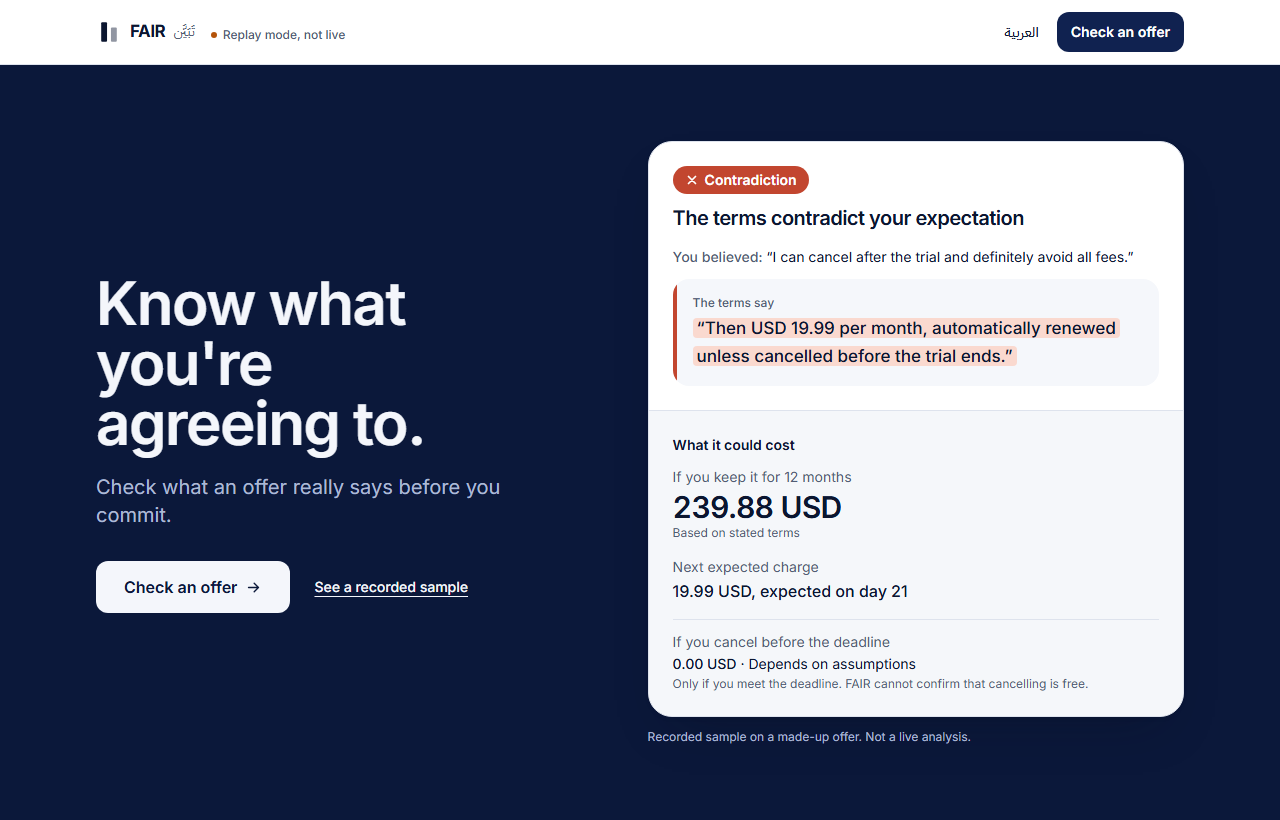
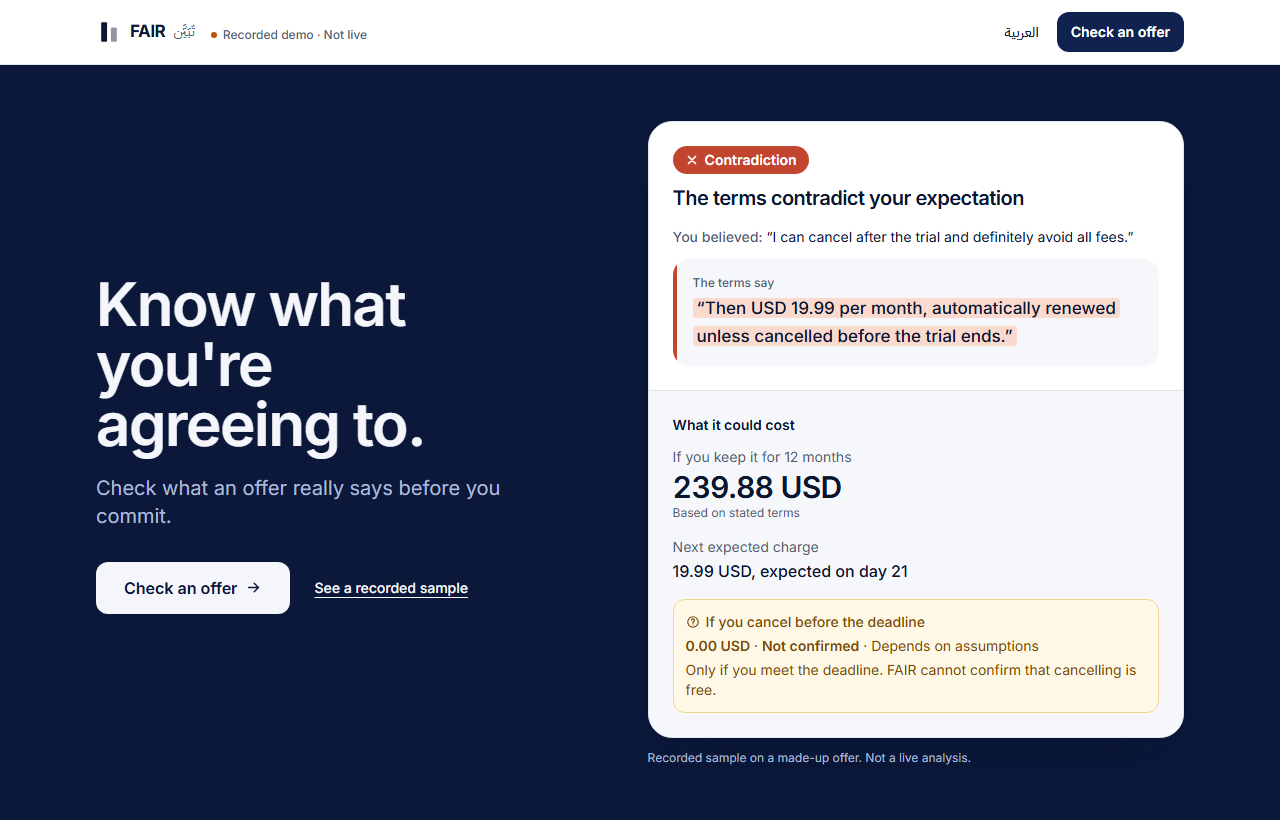
FAIR: final demo polish and submission README
- One concise "Recorded demo · Not live" label instead of repeated replay banners
- Recorded examples lead the form in replay mode; unsupported input gets a calm notice
- Cancel scenario shown as conditional and "Not confirmed" beside the amount
- README: problem statement, refreshed screenshots, updated replay instructions

diff --git a/frontend/src/i18n/strings.js b/frontend/src/i18n/strings.js
@@ -31,7 +31,7 @@ export const STRINGS = {
     },
     status: {
       label: 'System status',
-      replay: 'Replay mode, not live',
+      replay: 'Recorded demo · Not live',
     },
     home: {
       title: "Know what you're agreeing to.",
@@ -50,12 +50,14 @@ export const STRINGS = {
     },
     examples: {
       title: 'Try an example',
+      recordedTitle: 'Explore a recorded example',
     },
     result: {
       costTitle: 'What it could cost',
       keepFor: 'If you keep it for {months}',
       ifCancel: 'If you cancel before the deadline',
       cancelCaveat: 'Only if you meet the deadline. FAIR cannot confirm that cancelling is free.',
+      notConfirmed: 'Not confirmed',
       noTotal: 'No total shown',
       noEstablished: 'These terms do not establish a cost FAIR can calculate.',
       stillOpen: 'The terms do not settle',
@@ -73,7 +75,7 @@ export const STRINGS = {
         not_configured: "Live analysis isn't set up on this server, so no result can be produced yet.",
         disabled: 'Live analysis is turned off on this server, so no result can be produced right now.',
         unreachable: "FAIR can't be reached right now. You can still prepare your text.",
-        replay: 'Demo mode: only the examples below can be checked. Other text returns an error.',
+        replay: 'This demo answers these three recorded examples. Pick one, then press Reveal the Gap.',
       },
       latestResult: 'View latest result',
       retryConnection: 'Try again',
@@ -106,9 +108,9 @@ export const STRINGS = {
       newCheck: 'Check another offer',
     },
     replay: {
-      badge: 'Recorded synthetic example — replay, not a live model request.',
-      savedNotice: 'This whole result was saved earlier. Nothing is running now.',
-      notice: 'FAIR re-ran its checks on a saved answer, and no model request was made.',
+      badge: 'Recorded example · Not live',
+      savedNotice: 'A saved result. Nothing is running now.',
+      notice: 'A saved answer, re-checked by FAIR. No model request was made.',
       earlierPrompt: 'This saved answer came from an earlier prompt, v4. With the current prompt, v5, the model itself answered "not settled" on this case, and the check stays in place as a backstop.',
     },
     reveal: {
@@ -148,8 +150,8 @@ export const STRINGS = {
     },
     errors: {
       replay_unsupported: {
-        title: 'This demo only checks the examples',
-        body: 'Choose one of the examples below the form. Other text cannot be analysed here.',
+        title: 'This demo checks recorded examples only',
+        body: 'Choose one of the three recorded examples above. Your own text can’t be analysed in this demo.',
       },
       code: 'Error code: {code}',
       retry: 'Try again',
@@ -551,7 +553,7 @@ export const STRINGS = {
     },
     status: {
       label: 'حالة النظام',
-      replay: 'وضع الإعادة، ليس مباشرًا',
+      replay: 'عرض مسجَّل · ليس مباشرًا',
     },
     home: {
       title: 'اعرف على ماذا توافق.',
@@ -570,12 +572,14 @@ export const STRINGS = {
     },
     examples: {
       title: 'جرّب مثالًا',
+      recordedTitle: 'استكشف مثالًا مسجَّلًا',
     },
     result: {
       costTitle: 'كم قد يكلفك',
       keepFor: 'إذا احتفظت به لمدة {months}',
       ifCancel: 'إذا ألغيت قبل الموعد النهائي',
       cancelCaveat: 'بشرط الالتزام بالموعد. لا يستطيع FAIR تأكيد أن الإلغاء مجاني.',
+      notConfirmed: 'غير مؤكَّد',
       noTotal: 'لا يوجد إجمالي',
       noEstablished: 'لا تحدد هذه الشروط تكلفة يمكن لـ FAIR حسابها.',
       stillOpen: 'لا تحسم الشروط',
@@ -593,7 +597,7 @@ export const STRINGS = {
         not_configured: 'التحليل المباشر غير مُعدّ على هذا الخادم، لذا لا يمكن إصدار نتيجة بعد.',
         disabled: 'التحليل المباشر متوقف على هذا الخادم، لذا لا يمكن إصدار نتيجة حاليًا.',
         unreachable: 'تعذّر الوصول إلى FAIR حاليًا. يمكنك مواصلة تجهيز نصك.',
-        replay: 'وضع العرض: يمكن فحص الأمثلة أدناه فقط، ويعيد أي نص آخر رسالة خطأ.',
+        replay: 'يجيب هذا العرض عن هذه الأمثلة المسجَّلة الثلاثة. اختر واحدًا، ثم اضغط «اكشف الفجوة».',
       },
       latestResult: 'عرض أحدث نتيجة',
       retryConnection: 'حاول مجددًا',
@@ -626,9 +630,9 @@ export const STRINGS = {
       newCheck: 'افحص عرضًا آخر',
     },
     replay: {
-      badge: 'مثال اصطناعي مسجَّل — إعادة عرض، وليس طلبًا مباشرًا إلى النموذج.',
-      savedNotice: 'حُفظت هذه النتيجة كاملة سابقًا. لا يجري أي شيء الآن.',
-      notice: 'أعاد FAIR فحوصه على إجابة محفوظة، ولم يُرسل أي طلب إلى النموذج.',
+      badge: 'مثال مسجَّل · ليس مباشرًا',
+      savedNotice: 'نتيجة محفوظة. لا يجري أي شيء الآن.',
+      notice: 'إجابة محفوظة أعاد FAIR فحصها، ولم يُرسل أي طلب إلى النموذج.',
       earlierPrompt: 'جاءت هذه الإجابة المحفوظة من إصدار أقدم من التعليمات (v4). ومع الإصدار الحالي (v5) أجاب النموذج نفسه بأن الأمر «غير محسوم» في هذه الحالة، ويبقى الفحص قائمًا كخط دفاع احتياطي.',
     },
     reveal: {
@@ -668,8 +672,8 @@ export const STRINGS = {
     },
     errors: {
       replay_unsupported: {
-        title: 'يفحص هذا العرض الأمثلة فقط',
-        body: 'اختر أحد الأمثلة أسفل النموذج. لا يمكن تحليل أي نص آخر هنا.',
+        title: 'يفحص هذا العرض الأمثلة المسجَّلة فقط',
+        body: 'اختر أحد الأمثلة المسجَّلة الثلاثة أعلاه. لا يمكن تحليل نصك الخاص في هذا العرض.',
       },
       code: 'رمز الخطأ: {code}',
       retry: 'حاول مجددًا',

diff --git a/frontend/src/test/App.test.jsx b/frontend/src/test/App.test.jsx
@@ -592,8 +592,8 @@ describe('replay mode is never presented as live', () => {
   const REPLAY = { ...HEALTH.live, model: 'replay:muse-spark-1.3' }
 
   it.each([
-    ['en', 'Replay mode, not live', 'Recorded synthetic example — replay, not a live model request.', 'no model request was made', 'Live analysis'],
-    ['ar', 'وضع الإعادة، ليس مباشرًا', 'مثال اصطناعي مسجَّل — إعادة عرض، وليس طلبًا مباشرًا إلى النموذج.', 'لم يُرسل أي طلب إلى النموذج', 'تحليل مباشر'],
+    ['en', 'Recorded demo · Not live', 'Recorded example · Not live', 'No model request was made', 'Live analysis'],
+    ['ar', 'عرض مسجَّل · ليس مباشرًا', 'مثال مسجَّل · ليس مباشرًا', 'لم يُرسل أي طلب إلى النموذج', 'تحليل مباشر'],
   ])('labels the status, the note and the result (%s)', async (lang, pill, badge, notice, liveWords) => {
     const user = userEvent.setup()
     const { terms, expectation, body } = replay.cases['FAIR-003']
@@ -801,7 +801,7 @@ describe('truthful system status', () => {
     await user.click(within(screen.getByTestId('availability')).getByRole('button', { name: 'Try again' }))
     await waitFor(() => expect(healthCalls()).toBe(2))
     await user.click(await screen.findByRole('button', { name: 'Open a saved example instead' }))
-    expect(await screen.findByTestId('replay-badge')).toHaveTextContent('Recorded synthetic example')
+    expect(await screen.findByTestId('replay-badge')).toHaveTextContent('Recorded example · Not live')
     expect(screen.getByTestId('replay-notice')).toHaveTextContent('Nothing is running now')
     expect(screen.queryByTestId('live-badge')).not.toBeInTheDocument()
   })
@@ -922,7 +922,7 @@ describe('live analysis → Results workspace', () => {
     expect(verdict).toHaveTextContent('Contradiction')
     expect(verdict).toHaveTextContent('The terms contradict your expectation')
     expect(verdict).toHaveTextContent('It does not stay free.')
-    expect(within(verdict).getByText('AI interpretation')).toBeInTheDocument()
+    expect(within(verdict).queryByText('AI interpretation')).not.toBeInTheDocument() // kept in the detail rows, not the answer
     const mirror = screen.getByRole('region', { name: 'Your expectation vs the terms' })
     const claims = within(mirror).getAllByTestId('claim')
     expect(claims.map((c) => c.dataset.verdict)).toEqual(['MATCH', 'CONTRADICTION'])
@@ -1432,6 +1432,7 @@ describe('home page', () => {
     expect(screen.getByTestId('proof-label')).toHaveTextContent('Recorded sample')
     expect(screen.getByTestId('proof-label')).toHaveTextContent('Not a live analysis')
     const cancel = within(screen.getByTestId('product-proof')).getByTestId('primary-cancel')
+    expect(cancel).toHaveTextContent('Not confirmed')
     expect(cancel).toHaveTextContent('Depends on assumptions')
     expect(cancel).toHaveTextContent('FAIR cannot confirm that cancelling is free')
   })
@@ -1499,6 +1500,7 @@ describe('the answer comes first', () => {
     await show(user, 'decision-twin')
     const cancel = screen.getByTestId('primary-cancel')
     expect(cancel).toHaveTextContent('0.00 USD')
+    expect(cancel).toHaveTextContent('Not confirmed')
     expect(cancel).toHaveTextContent('Depends on assumptions')
     expect(cancel).toHaveTextContent('Only if you meet the deadline')
     expect(screen.getByTestId('primary-keep').querySelector('dd').className).toContain('text-3xl')
@@ -1549,11 +1551,14 @@ describe('demo mode says what it can do', () => {
     const user = userEvent.setup()
     mockFetchWith({ ...HEALTH.live, model: 'replay:muse-spark-1.3' }, fakeResponse(502, { error: { code: 'model_unavailable', message: 'x' } }))
     renderApp()
-    expect(await screen.findByTestId('availability')).toHaveTextContent('only the examples below can be checked')
+    expect(await screen.findByTestId('availability')).toHaveTextContent('This demo answers these three recorded examples')
+    expect(screen.getByRole('heading', { name: 'Explore a recorded example' })).toBeInTheDocument()
     await fillAndSubmit(user, 'Some other offer.', 'A belief.')
     const alert = await screen.findByRole('alert')
-    expect(alert).toHaveTextContent('This demo only checks the examples')
+    expect(alert).toHaveTextContent('This demo checks recorded examples only')
     expect(alert).not.toHaveTextContent('unavailable')
+    expect(alert).not.toHaveTextContent('Error code')
+    expect(within(alert).queryByRole('button', { name: 'Try again' })).not.toBeInTheDocument()
   })
 })
 

diff --git a/frontend/src/components/AnalyzeForm.jsx b/frontend/src/components/AnalyzeForm.jsx
@@ -60,7 +60,8 @@ const TextArea = forwardRef(function TextArea({ id, label, error, value, onChang
 /** Honest note about availability, with a way forward. Only "live" may mention Muse Spark as the engine. */
 export function AvailabilityNote({ status, onRetry, onOpenExample }) {
   const { t } = useLang()
-  if (status === 'checking') return null
+  // Replay is introduced by the recorded examples themselves (ExamplesList), not by a banner.
+  if (status === 'checking' || status === 'replay') return null
   if (status === 'live') {
     return (
       <p className="text-xs text-muted" data-testid="availability" data-status={status}>
@@ -71,29 +72,39 @@ export function AvailabilityNote({ status, onRetry, onOpenExample }) {
   return (
     <div className="rounded-xl bg-unknown-bg px-4 py-3 text-sm text-unknown-fg" role="status" data-testid="availability" data-status={status}>
       <p>{t(`analyze.unavailable.${status}`)}</p>
-      {status === 'replay' ? null : (
-        <p className="mt-1 flex flex-wrap gap-x-4">
-          {status === 'unreachable' ? (
-            <button type="button" className="inline-flex min-h-[32px] items-center rounded font-medium underline underline-offset-4" onClick={onRetry}>
-              {t('analyze.retryConnection')}
-            </button>
-          ) : null}
-          <button type="button" className="inline-flex min-h-[32px] items-center rounded font-medium underline underline-offset-4" onClick={() => onOpenExample(SAVED_EXAMPLES[0].id)}>
-            {t('analyze.openExample')}
+      <p className="mt-1 flex flex-wrap gap-x-4">
+        {status === 'unreachable' ? (
+          <button type="button" className="inline-flex min-h-[32px] items-center rounded font-medium underline underline-offset-4" onClick={onRetry}>
+            {t('analyze.retryConnection')}
           </button>
-        </p>
-      )}
+        ) : null}
+        <button type="button" className="inline-flex min-h-[32px] items-center rounded font-medium underline underline-offset-4" onClick={() => onOpenExample(SAVED_EXAMPLES[0].id)}>
+          {t('analyze.openExample')}
+        </button>
+      </p>
     </div>
   )
 }
 
-function ExamplesList({ onChoose }) {
+/** In replay mode these are the only inputs that answer, so they lead the page and say so. */
+function ExamplesList({ onChoose, recorded }) {
   const { t, lang } = useLang()
   return (
     <div className="min-w-0" data-testid="examples">
-      <p className="text-sm font-medium text-muted" id="examples-heading">
-        {t('examples.title')}
-      </p>
+      {recorded ? (
+        <>
+          <h2 className="text-base font-semibold text-fg" id="examples-heading">
+            {t('examples.recordedTitle')}
+          </h2>
+          <p className="mt-0.5 text-sm text-muted" role="status" data-testid="availability" data-status="replay">
+            {t('analyze.unavailable.replay')}
+          </p>
+        </>
+      ) : (
+        <p className="text-sm font-medium text-muted" id="examples-heading">
+          {t('examples.title')}
+        </p>
+      )}
       <ul className="mt-2 flex flex-wrap gap-2" aria-labelledby="examples-heading">
         {SAVED_EXAMPLES.map((ex) => (
           <li key={ex.id} className="min-w-0">
@@ -112,6 +123,7 @@ export default function AnalyzeForm({ terms, expectation, onTermsChange, onExpec
   return (
     <div className="space-y-5">
       <AvailabilityNote status={status} onRetry={onRetryConnection} onOpenExample={onOpenExample} />
+      {status === 'replay' ? <ExamplesList recorded onChoose={onChooseExample} /> : null}
       <form
         noValidate
         onSubmit={(e) => {
@@ -140,7 +152,7 @@ export default function AnalyzeForm({ terms, expectation, onTermsChange, onExpec
           ) : null}
         </div>
       </form>
-      <ExamplesList onChoose={onChooseExample} />
+      {status === 'replay' ? null : <ExamplesList onChoose={onChooseExample} />}
     </div>
   )
 }

diff --git a/frontend/src/components/ResultCard.jsx b/frontend/src/components/ResultCard.jsx
@@ -58,12 +58,16 @@ function CostSummary({ data }) {
         </div>
       ) : null}
       {cancel ? (
-        <div className="border-t border-line pt-3 text-sm" data-testid="primary-cancel">
-          <dt className="text-muted">{t('result.ifCancel')}</dt>
-          <dd className="mt-0.5 text-fg">
-            <bdi className="font-medium">{money(cancel.total)}</bdi> · {t('cost.status.conditional')}
+        // A scenario, not a promise: the condition and the doubt sit with the amount, in the same tinted box.
+        <div className="rounded-xl border border-unknown-line bg-unknown-bg p-3 text-sm text-unknown-fg" data-testid="primary-cancel">
+          <dt className="flex items-center gap-1.5 font-medium">
+            <QuestionIcon width={14} height={14} className="shrink-0" />
+            {t('result.ifCancel')}
+          </dt>
+          <dd className="mt-1">
+            <bdi className="font-semibold">{money(cancel.total)}</bdi> · <span className="font-semibold">{t('result.notConfirmed')}</span> · {t('cost.status.conditional')}
           </dd>
-          <dd className="mt-0.5 text-xs text-muted">{t('result.cancelCaveat')}</dd>
+          <dd className="mt-1">{t('result.cancelCaveat')}</dd>
         </div>
       ) : null}
     </dl>
@@ -93,7 +97,6 @@ export default function ResultCard({ data, expectation, compact, onShowEvidence,
             <p className="mt-2 max-w-2xl break-words text-[17px] leading-relaxed text-fg" lang={lang}>
               {data.explanation[lang]}
             </p>
-            <p className="mt-1 text-xs text-muted">{t('provenance.ai')}</p>
           </>
         )}
 

diff --git a/frontend/src/components/ResultsView.jsx b/frontend/src/components/ResultsView.jsx
@@ -25,14 +25,18 @@ function ModeLine({ result }) {
       </div>
     )
   }
+  // One line, attached to this result: a recorded answer must never read as a new live one.
   if (isReplayModel(data.model)) {
     return (
-      <div className="rounded-xl bg-unknown-bg px-4 py-2.5 text-sm text-unknown-fg">
-        <p className="font-semibold" data-testid="replay-badge">{t('replay.badge')}</p>
-        <p data-testid="replay-notice">
-          {t(result.kind === 'saved' ? 'replay.savedNotice' : 'replay.notice')}
-          {isEarlierPromptReplay(data.model) ? <span className="mt-1 block font-medium" data-testid="earlier-prompt-notice">{t('replay.earlierPrompt')}</span> : null}
+      <div className="text-xs text-muted">
+        <p className="flex flex-wrap items-center gap-x-2 gap-y-1">
+          <span className="chip whitespace-nowrap font-medium text-unknown-fg" data-testid="replay-badge">
+            <span aria-hidden="true" className="h-1.5 w-1.5 rounded-full bg-unknown-solid" />
+            {t('replay.badge')}
+          </span>
+          <span data-testid="replay-notice">{t(result.kind === 'saved' ? 'replay.savedNotice' : 'replay.notice')}</span>
         </p>
+        {isEarlierPromptReplay(data.model) ? <p className="mt-2 text-sm font-medium text-unknown-fg" data-testid="earlier-prompt-notice">{t('replay.earlierPrompt')}</p> : null}
       </div>
     )
   }

diff --git a/frontend/src/components/ErrorBanner.jsx b/frontend/src/components/ErrorBanner.jsx
@@ -10,7 +10,9 @@ export default function ErrorBanner({ error, onRetry, onDismiss }) {
   const code = lookup(lang, `errors.${error.code}.title`) ? error.code : 'unknown'
   const isConfig = CONFIG_CODES.has(error.code)
   // Nothing went wrong with the user's text in these cases, so they read as a notice and carry no code.
-  const isNotice = isConfig || error.code === 'network'
+  // The same text would fail again in a recorded demo, so it offers no retry either.
+  const demoLimit = error.code === 'replay_unsupported'
+  const isNotice = isConfig || demoLimit || error.code === 'network'
   const tone = isNotice ? 'border-line bg-surface text-fg' : 'border-contra-line bg-contra-bg text-contra-fg'
   const ref = useRef(null)
   // On a phone the banner renders below the form, out of sight of the button that was pressed.
@@ -37,7 +39,7 @@ export default function ErrorBanner({ error, onRetry, onDismiss }) {
             </p>
           )}
           <div className="mt-3 flex flex-wrap gap-2">
-            {onRetry && !isConfig ? (
+            {onRetry && !isConfig && !demoLimit ? (
               <button type="button" className="btn-secondary" onClick={onRetry}>
                 {t('errors.retry')}
               </button>

diff --git a/README.md b/README.md
@@ -4,13 +4,15 @@ FAIR checks what you *believe* about a subscription offer against what its terms
 
 Muse Spark (`muse-spark-1.3`, via the Meta Model API) does the reading. Deterministic code verifies every quote and does every calculation.
 
+**The problem.** Free trials that convert to paid plans, introductory prices that end, cancellation deadlines and add-on fees sit in the fine print. People rarely misread everything. They usually hold one specific wrong belief, such as "I can cancel after the trial and avoid all fees". A summary of the terms does not test that belief. FAIR does.
+
 <p align="center">
   <img src="docs/screenshots/home.png" alt="FAIR home page with a recorded sample result" width="860">
 </p>
 
 ## Watch the demo
 
-**The demo video has not been published yet.** It will be linked here once it is.
+**The demo video (about 3 minutes) has not been published yet.** It will be linked here once it is.
 
 <!-- DEMO VIDEO: replace the line above with the GitHub-hosted video URL on its own line. -->
 
@@ -20,13 +22,13 @@ Muse Spark (`muse-spark-1.3`, via the Meta Model API) does the reading. Determin
 |---|---|---|
 | ![The Check an offer form with terms and an expectation filled in](docs/screenshots/check-an-offer.png) | ![A Contradiction result with the deciding quote and cost summary](docs/screenshots/result-en.png) | ![The same kind of result in Arabic](docs/screenshots/result-ar.png) |
 
-All screenshots come from **replay mode**: real saved Muse Spark outputs, re-checked by FAIR's current code, on synthetic offers. Each one is labelled "Replay mode, not live" in the interface.
+All screenshots come from **replay mode**: real saved Muse Spark outputs, re-checked by FAIR's current code, on synthetic offers. The interface labels each one "Recorded demo · Not live".
 
 ## What FAIR does
 
 - **Splits your belief into claims.** Each claim gets its own verdict: MATCH, CONTRADICTION or UNKNOWN (not settled by the terms).
 - **Shows its evidence.** A decisive verdict needs a quote found word for word in the terms. Otherwise FAIR shows UNKNOWN.
-- **Prices your options.** It compares keeping the subscription with cancelling before the deadline, over 1, 3 and 12 months, using `Decimal` arithmetic on verified values only. Each total is marked as based on stated terms or dependent on assumptions. When the terms are incomplete, FAIR withholds the total and names what is missing.
+- **Prices your options.** It compares keeping the subscription with cancelling before the deadline, over 1, 3 and 12 months, using `Decimal` arithmetic on verified values only. Each total is marked as based on stated terms or dependent on assumptions. When the terms are incomplete, FAIR withholds the total and names what is missing. Cancelling is always shown as a conditional scenario marked **Not confirmed**: FAIR assumes no refund and cannot confirm that cancelling is free.
 - **Keeps uncertainty visible.** Assumptions, rejected values and claims the terms don't settle each have their own section, which opens by default whenever there is something to show.
 - **Works in English and Arabic,** with a full right-to-left interface. Evidence matching tolerates diacritics and Arabic-Indic digits (٥٩ = 59).
 
@@ -78,7 +80,7 @@ python -m venv .venv
 .venv\Scripts\python.exe -m scripts.demo_replay      # http://127.0.0.1:8010
 ```
 
-Open http://127.0.0.1:8010 and choose one of the examples under **Try an example**. Add `?lang=ar` to the address to open the Arabic interface. The example inputs are listed in [docs/DEMO_SCRIPT.md](docs/DEMO_SCRIPT.md).
+Open http://127.0.0.1:8010 on your own machine, choose one of the three examples under **Explore a recorded example**, then press **Reveal the Gap**. Add `?lang=ar` to the address to open the Arabic interface. The example inputs are listed in [docs/DEMO_SCRIPT.md](docs/DEMO_SCRIPT.md).
 
 ## Configure the real application locally
 
